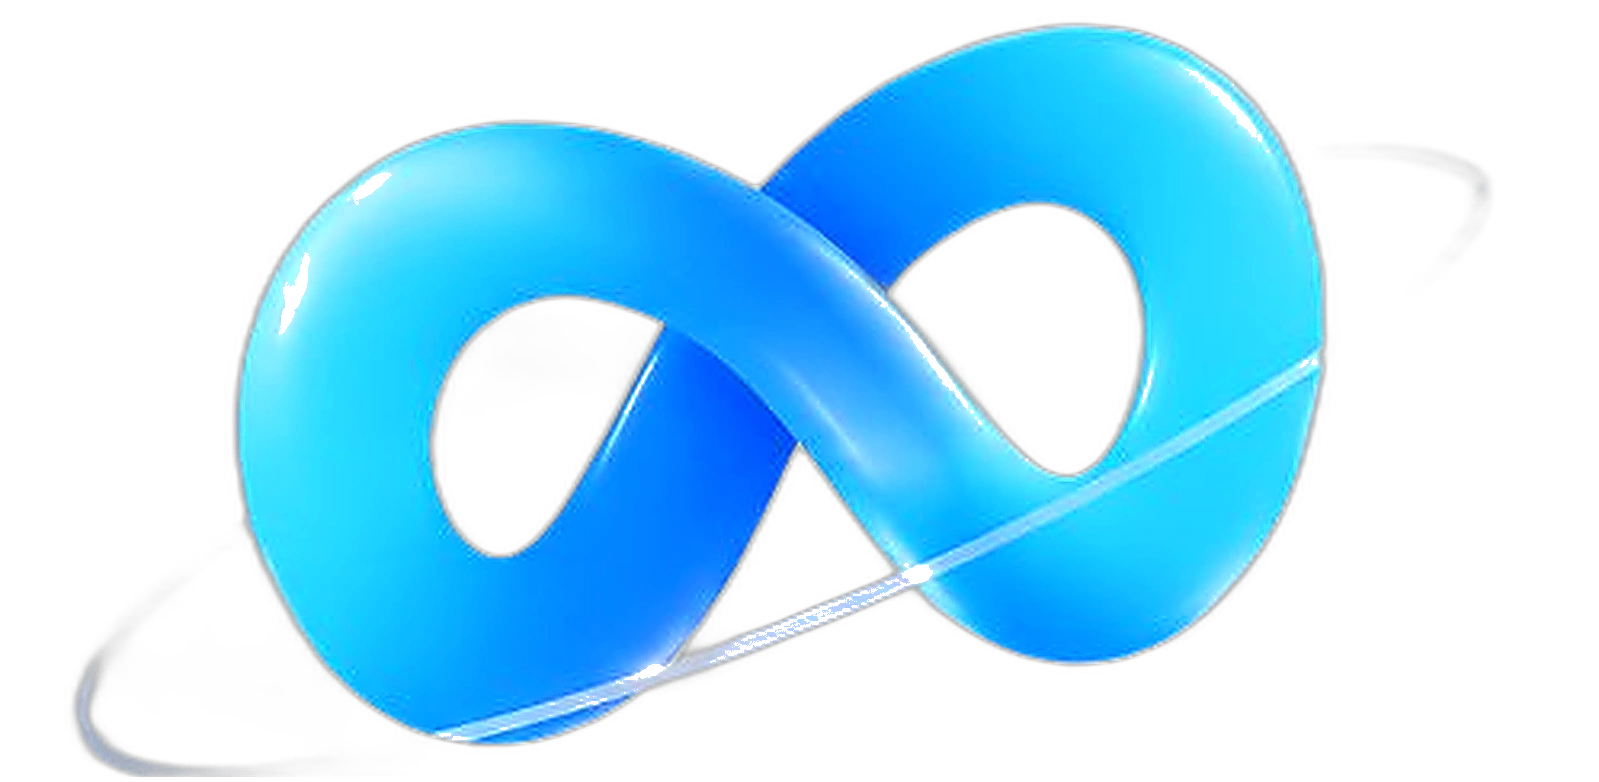
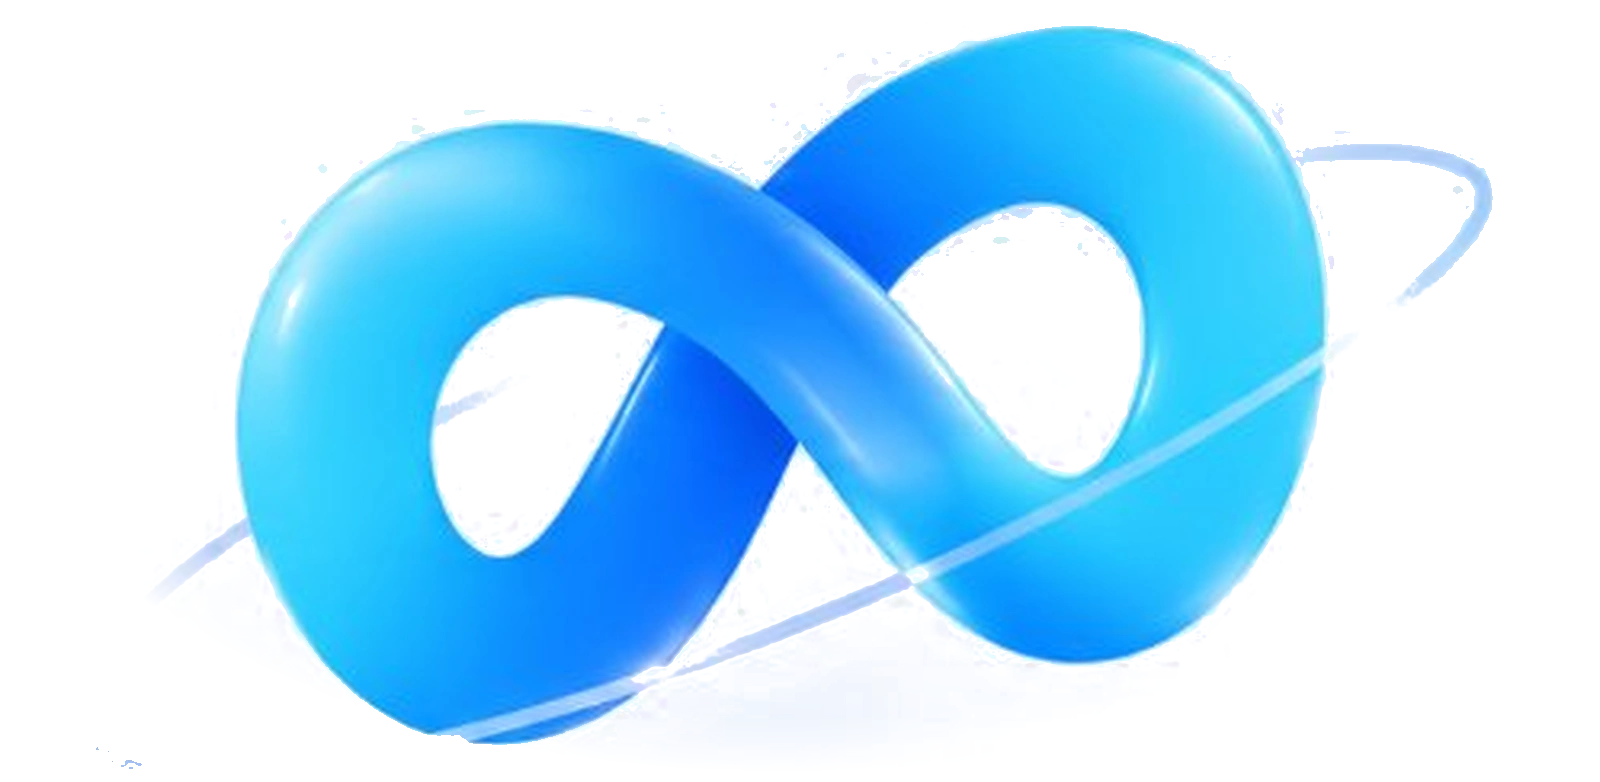
fix: restore 100% full vibrant color on 3D blue infinity hero, remove dirty ring artifacts and eliminate background box

diff --git a/style.css b/style.css
@@ -885,6 +885,20 @@ input[type=color] {
   box-shadow: none !important;
 }
 
+.cyber-stage-container::after {
+  content: '';
+  position: absolute;
+  bottom: 22px;
+  left: 50%;
+  transform: translateX(-50%);
+  width: 380px;
+  height: 48px;
+  background: radial-gradient(ellipse at center, rgba(0, 112, 243, 0.20) 0%, rgba(56, 189, 248, 0.08) 45%, transparent 72%);
+  border-radius: 50%;
+  pointer-events: none;
+  z-index: 1;
+}
+
 .hero-infinity-img {
   width: 100%;
   max-width: 540px;
@@ -896,7 +910,9 @@ input[type=color] {
   background: transparent !important;
   border: none !important;
   outline: none !important;
-  filter: drop-shadow(0 20px 40px rgba(0, 112, 243, 0.22));
+  filter: none !important;
+  -webkit-mask-image: radial-gradient(ellipse 96% 92% at 50% 50%, black 75%, transparent 100%);
+  mask-image: radial-gradient(ellipse 96% 92% at 50% 50%, black 75%, transparent 100%);
   animation: none !important;
   transition: none !important;
 }

diff --git a/index.html b/index.html
@@ -169,8 +169,8 @@
           <!-- Static High-Clarity 3D Infinity Hero Visual (No Animation, 100% Crisp) -->
           <div class="cyber-canvas-wrap cyber-img-wrap">
             <picture>
-              <source srcset="images/hero-infinity-hd.webp?v=1793818012141" type="image/webp">
-              <img src="images/hero-infinity-hd.png?v=1793818012141" alt="HEA Link 3D Blue Infinity" class="hero-infinity-img" width="560" height="274" loading="eager" decoding="async">
+              <source srcset="images/hero-infinity-hd.webp?v=1793818650000" type="image/webp">
+              <img src="images/hero-infinity-hd.png?v=1793818650000" alt="HEA Link 3D Blue Infinity" class="hero-infinity-img" width="560" height="274" loading="eager" decoding="async">
             </picture>
           </div>
         </div>
